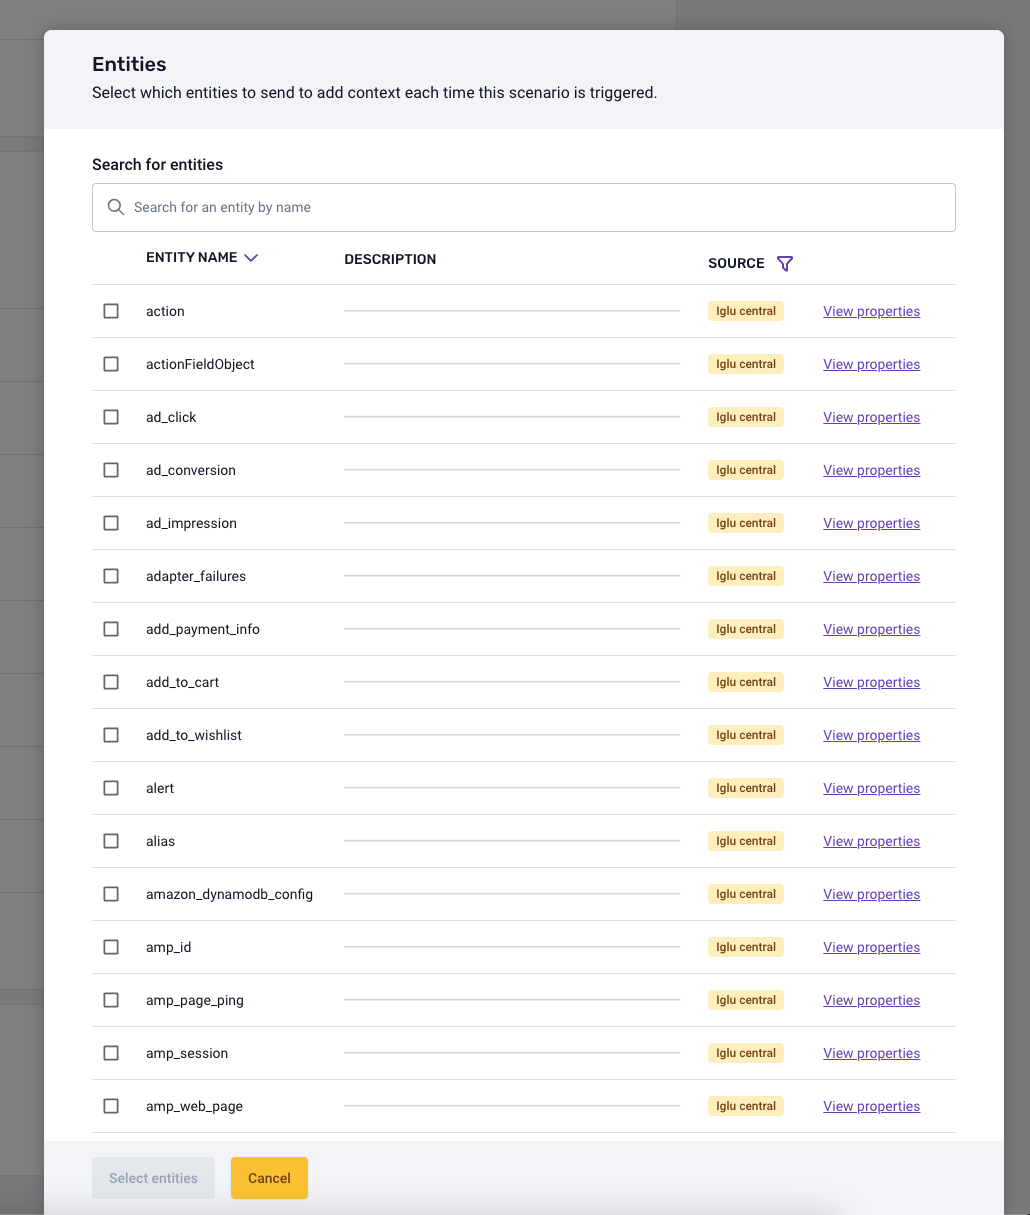
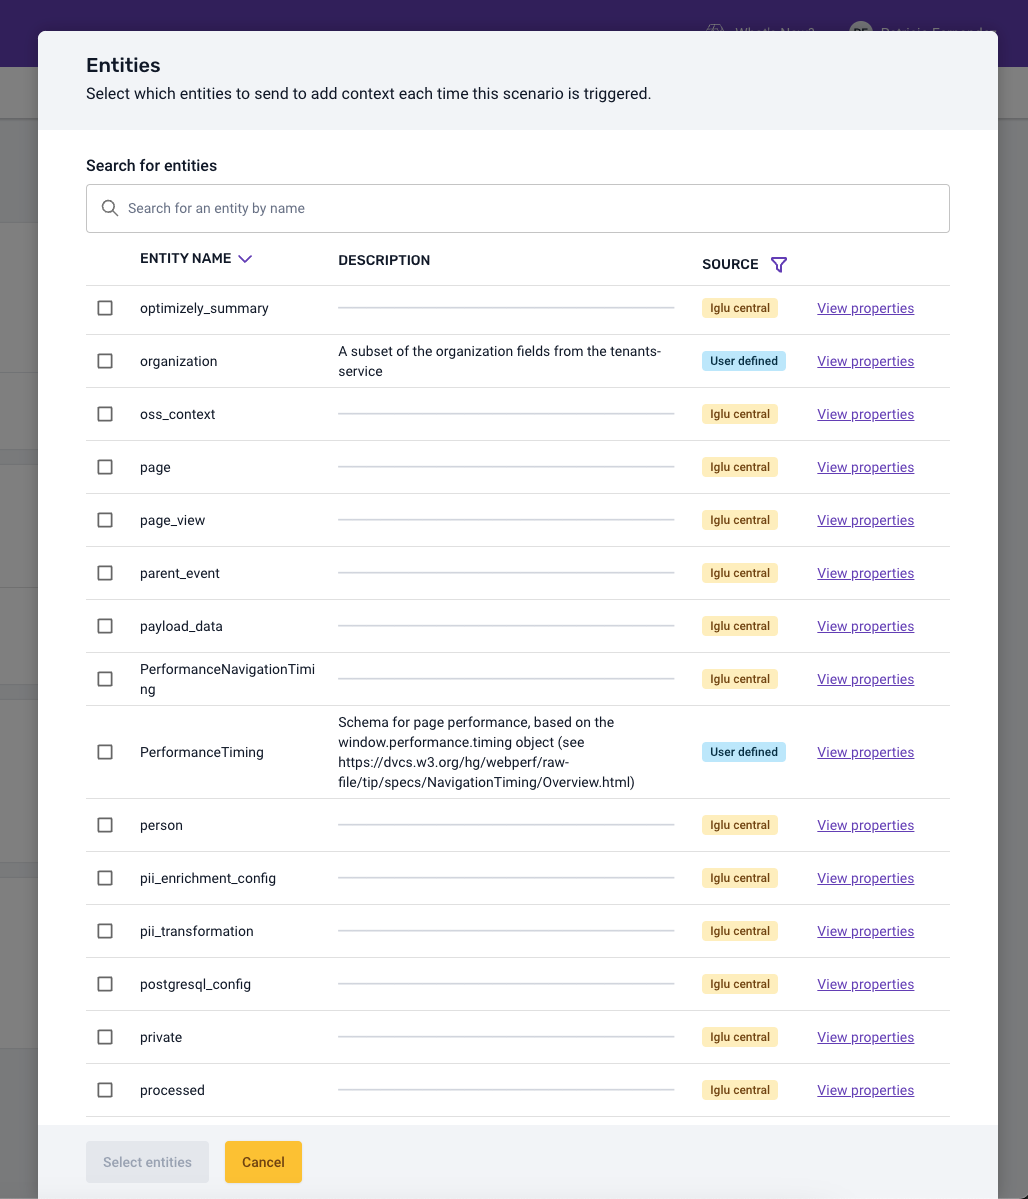
apply suggestions

diff --git a/docs/understanding-tracking-design/managing-tracking-scenarios-console/index.md b/docs/understanding-tracking-design/managing-tracking-scenarios-console/index.md
@@ -11,7 +11,7 @@ Configure specific implementation rules, entities and triggers for your tracking
 To create a new Tracking Scenario, first navigate to **Data Structures** in the menu. From there, select a data structure from the list.
 
 :::info
-Tracking Scenarios can only be created from Data Strucutres that have been set as **Event**.
+Tracking Scenarios can only be created from Data Structures that have been set as **Event**.
 :::
 
 After selecting a data structure, click on the **Tracking Scenarios** tab as shown in the image.
@@ -22,12 +22,12 @@ Next, click the **'Add new scenario'** button. A new modal will appear with fiel
 
 ![](images/ts-2.png)
 
-Be aware of the **Show version** of the data structure against which the Tracking Scenario will be created. This means that the tracking will be compatible with this specific Data Structure version but may not be compatible against other versions or future versions if they evolve.
+Be aware of the **version** of the data structure against which the Tracking Scenario will be created. This means that the tracking will be compatible with this specific Data Structure version but may not be compatible against other versions or future versions if they evolve.
 
 The fields available to fill at this stage are:
 
 - A text field with the **Scenario name**. 
-- A tag field to indicate which applications this scenario is design to tracked. This will allow to create or reuse existing tags from other defined tracking scenarios.
+- A tag field to indicate which applications this scenario is designed to track. This will allow to create or reuse existing tags from other defined tracking scenarios.
 - A free text field for a **description** of the tracking scenario.
 
 ![](images/ts-3.png)
@@ -56,9 +56,9 @@ You can edit the following fields in this page.
 
 ### Scenario Information
 
-Click the **'Edit information'** button in the **Scenario Information** section or the **pencil icon** at the right side of the tracking scenario name to open a modal view similar to the creation one, but with the current information already filled.
+Click the **'Edit information'** button in the **Scenario Information** section or the **pencil icon** at the right side of the tracking scenario name to open a modal view similar to the creation one, but with the current information already filled in.
 
-Yo will be able to modify all of the field previously during the creation stage.
+You will be able to modify all of the fields set previously, during the creation stage.
 
 To confirm the changes, click **'Save and update scenario'**. To cancel, click the **'Cancel'** button, both at the bottom of the modal.
 
@@ -104,17 +104,17 @@ Add multiple entites by clicking the **'Add entities'** button. A new modal view
 
 ![](images/ts-10.png)
 
-Similar to the **Add implementation rules** modal, you will be able to add multiple entities from the list of entites displayed, sourced from your [Iglu](/docs/understanding-your-pipeline/glossary-of-terms/index.md#iglu). For each of the entities, you can view detailed information about the properties of the entity by clicking **'View properties'**. A search bar will also be available to help search and filter by entity name.
+Similar to the **Add implementation rules** modal, you will be able to add multiple entities from the list of entites displayed, that can be sourced from your [Iglu](/docs/understanding-your-pipeline/glossary-of-terms/index.md#iglu) or custom user defined entites. For each of the entities, you can view detailed information about the properties of the entity by clicking **'View properties'**. A search bar will also be available to help search and filter by entity name.
 
 Once you've selected the entities you want to add to the tracking scenario, click the **'Select entities'** button to confirm or the **'Cancel'** button to discard your selections.
 
-Once selected you will be shown with a new view inside the modal where you can select the cardinality of the entities.
+Once selected you will be presented with a new view inside the modal where you can select the cardinality of the entities.
 
 ![](images/ts-11.png)
 
 It will save the entites on **'Save entities'** click or back to the previous selection view clicking **'Back'**.
 
-Once saved the entities you will see a list of entities in the tracking detail view where you can edit, add or remove them.
+Once the entities are saved, you will see a list of entities in the tracking detail view where you can edit, add or remove them.
 
 ![](images/ts-12.png)
 
@@ -126,7 +126,7 @@ When you've configured a tracking scenario and you are ready to publish it, go t
 
 ![](images/ts-13.png)
 
-Once the scenario is published, it will no longer appear with the status **Draft** but instead with the status **Published** in the list view. When a scenario is published, you won't be able to edit it anymore unless you create a new **Draft** version. To do this  click on the scenario name from the list of tracking scenarios, and in the detailed view, instead of the previous **'Publish scenario'** button, you will see a **'Create a draft & edit'** button instead of the publish one.
+Once the scenario is published, it will no longer appear with the status **Draft** but instead with the status **Published** in the list view. When a scenario is published, you won't be able to edit it anymore unless you create a new **Draft** version. To do this  click on the scenario name from the list of tracking scenarios, and in the detailed view, instead of the previous **'Publish scenario'** button, you will see a **'Create a draft & edit'** button.
 
 ![](images/ts-14.png)
 
@@ -134,7 +134,7 @@ Once the scenario is published, it will no longer appear with the status **Draft
 
 ## Scharing a Tracking Scenario
 
-You may want to share a tracking scenario, whether it is published or still on draft. To do this from the **Tracking scenario** tab, click on the tracking scenario name you want to share, and then from the detailed view, click the **'Share scenario'** button near to the publish button.
+You may want to share a tracking scenario, whether it is published or still a draft. To do this from the **Tracking scenario** tab, click on the tracking scenario name you want to share, and then from the detailed view, click the **'Share scenario'** button near to the publish button.
 
 ![](images/ts-15.png)
 
@@ -153,18 +153,18 @@ A confirmation modal will appear.
 ![](images/ts-17.png)
 
 :::warning
-This opeartion can't be undo.
+This opeartion can't be reverted.
 :::
 
 ## Deprecating Published Tracking Scenarios
 
-You can deprecate a tracking scenario, but this is only possible for *Published* versions. To deprecate a Published tracking scenario, got to the **Tracking scenarios** tab and click the **'Deprecate'** button.
+You can deprecate a tracking scenario, but this is only possible for *Published* versions. To deprecate a Published tracking scenario, go to the **Tracking scenarios** tab and click the **'Deprecate'** button.
 
 A confirmation modal will appear where you can add some comments. 
 
 ![](images/ts-18.png)
 
-Once you deprecate on a Published scenario you will see the new **Deprecated** status.
+Once you deprecate a Published scenario you will see the new **Deprecated** status.
 
 ![](images/ts-19.png)
 
@@ -175,7 +175,7 @@ You can undo this action by clicking on the scenario and on the detail view you 
 :::
 
 :::info
-You can perform some of this actions, **'Publish'**, **'Share'**, **'Delete'**, **'Create a draft & edit'** and **'Deprecate'** on a tracking scenario clicking the triple-dot menu button **'...'** from the **Tracking scenario** tab view.
+You can perform some of these actions, **'Publish'**, **'Share'**, **'Delete'**, **'Create a draft & edit'** and **'Deprecate'** on a tracking scenario clicking the triple-dot menu button **'...'** from the **Tracking scenario** tab view.
 
 ![](images/ts-21.png)
 ![](images/ts-22.png)
